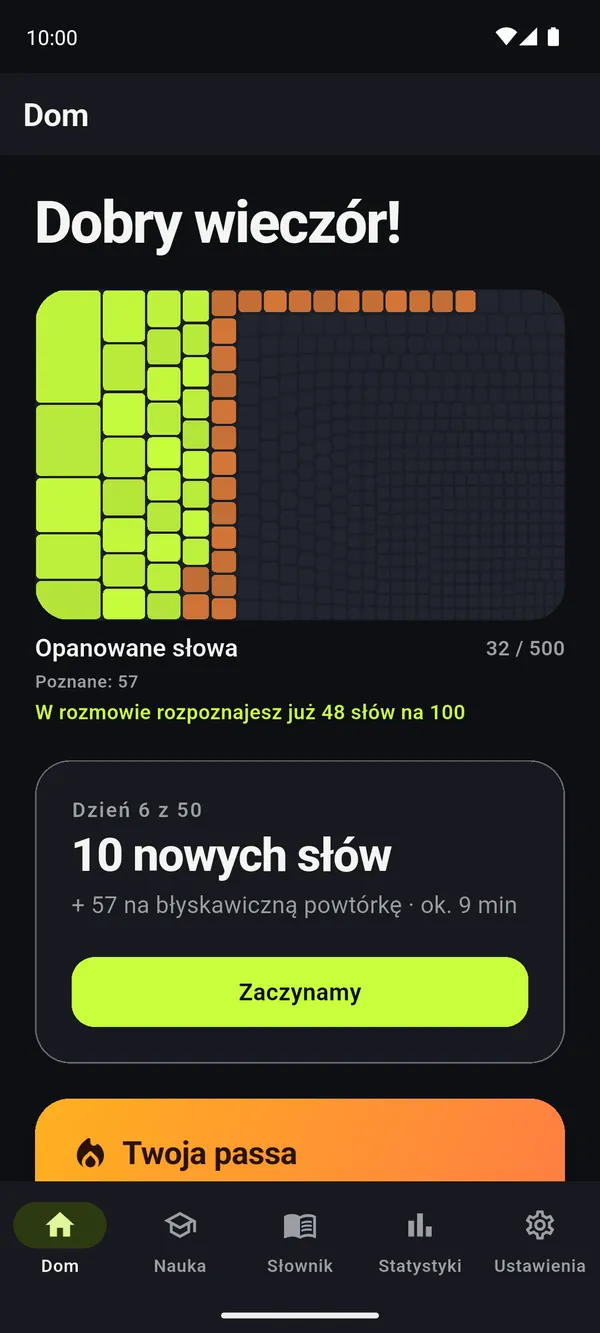
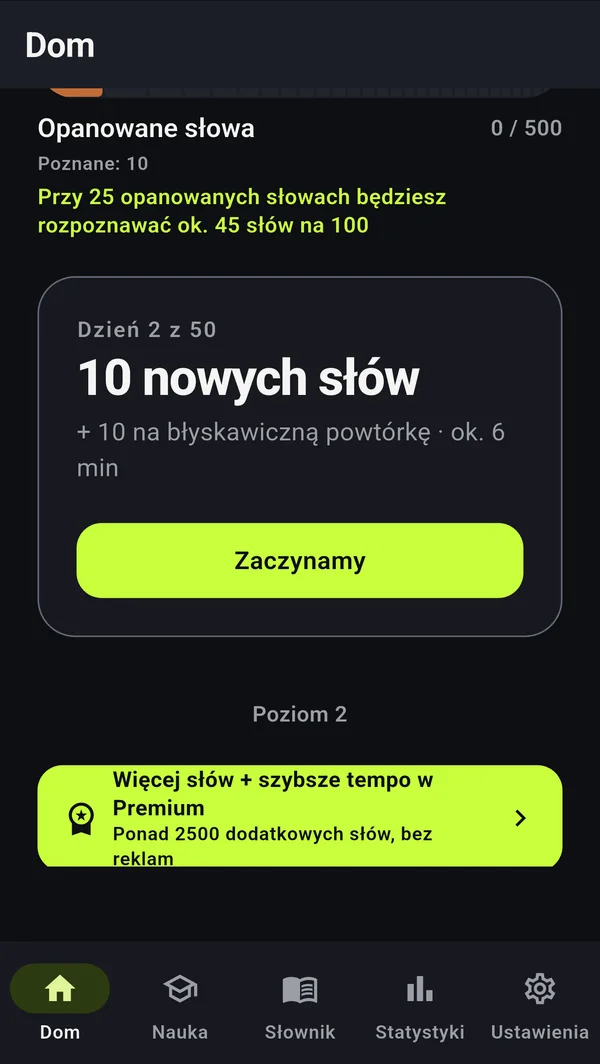
Nowe zrzuty z aplikacji, naklejka na dole: tylko 14 dni bez reklam

diff --git a/index.html b/index.html
@@ -97,7 +97,7 @@
       <span class="s-small">i bez konta</span>
     </div>
     <figure class="phone phone-hero">
-      <img src="/img/fiszka-przod.webp" width="600" height="1333" alt="Ekran aplikacji: fiszka ze słowem who, numer 59 z 500, z przyciskiem Posłuchaj i przyciskiem Pokaż odpowiedź." fetchpriority="high">
+      <img src="/img/fiszka-przod.webp" width="600" height="1157" alt="Ekran aplikacji: fiszka ze słowem of i etykietą przyimek, z przyciskiem Posłuchaj." fetchpriority="high">
     </figure>
   </div>
 </section>
@@ -132,21 +132,21 @@
 
   <ol class="steps">
     <li class="step">
-      <figure class="phone"><img src="/img/dom.webp" width="600" height="1333" loading="lazy" decoding="async" alt="Ekran Dom: mozaika opanowanych słów i karta Dzień 6 z 50, 10 nowych słów, przycisk Zaczynamy."></figure>
+      <figure class="phone"><img src="/img/dom.webp" width="600" height="1064" loading="lazy" decoding="async" alt="Ekran Dom: karta Dzień 2 z 50, 10 nowych słów, przycisk Zaczynamy."></figure>
       <div class="step-txt">
         <h3><span class="step-n">1</span>Plan na dziś</h3>
         <p>Od razu widzisz, który to dzień z 50, ile nowych słów i powtórek czeka i ile mniej więcej to potrwa. Jeden przycisk.</p>
       </div>
     </li>
     <li class="step">
-      <figure class="phone"><img src="/img/fiszka-tyl.webp" width="600" height="1333" loading="lazy" decoding="async" alt="Odwrócona fiszka: who znaczy kto, z wymową i zdaniem przykładowym Who is that? Kto to jest?"></figure>
+      <figure class="phone"><img src="/img/fiszka-tyl.webp" width="600" height="1157" loading="lazy" decoding="async" alt="Odwrócona fiszka: of znaczy z, z wymową i zdaniem przykładowym One of my friends is here."></figure>
       <div class="step-txt">
         <h3><span class="step-n">2</span>10 nowych słów</h3>
         <p>Każde z wymową lektora i zdaniem przykładowym. Odwracasz kartę i mówisz uczciwie, czy pamiętasz.</p>
       </div>
     </li>
     <li class="step">
-      <figure class="phone"><img src="/img/quiz.webp" width="600" height="1333" loading="lazy" decoding="async" alt="Quiz: słowo about i cztery tłumaczenia do wyboru, poprawna odpowiedź o, plus 10 XP."></figure>
+      <figure class="phone"><img src="/img/quiz.webp" width="600" height="1157" loading="lazy" decoding="async" alt="Quiz: słowo be i cztery tłumaczenia do wyboru, poprawna odpowiedź być, plus 10 XP."></figure>
       <div class="step-txt">
         <h3><span class="step-n">3</span>Szybka powtórka</h3>
         <p>To, co już znasz, wraca na chwilę. Słowo pojawia się dokładnie wtedy, gdy zaczynasz je zapominać — znane rzadziej, trudne częściej.</p>
@@ -272,7 +272,6 @@
   <div class="sticker sticker-static" aria-hidden="true">
     <span class="s-big">14 dni</span>
     <span class="s-mid">bez reklam</span>
-    <span class="s-small">i bez konta</span>
   </div>
   <div class="cta" data-cta>
     <button class="btn btn-pending" type="button" aria-disabled="true" aria-describedby="cta-note-2">

diff --git a/css/site.css b/css/site.css
@@ -130,7 +130,7 @@ main, .top, .foot { position: relative; z-index: 1; }
   background: linear-gradient(160deg, #2A2E36, #15171B 40%, #0D0E11);
   box-shadow: 0 1px 0 rgba(255,255,255,.08) inset, 0 30px 60px -24px rgba(0,0,0,.8), 0 12px 24px -12px rgba(0,0,0,.6);
 }
-.phone img { border-radius: 27px; width: 100%; aspect-ratio: 600 / 1333; object-fit: cover; background: var(--surface); }
+.phone img { border-radius: 27px; width: 100%; height: auto; background: var(--surface); }
 .phone-hero { transform: rotate(2.5deg); }
 
 .sticker {
